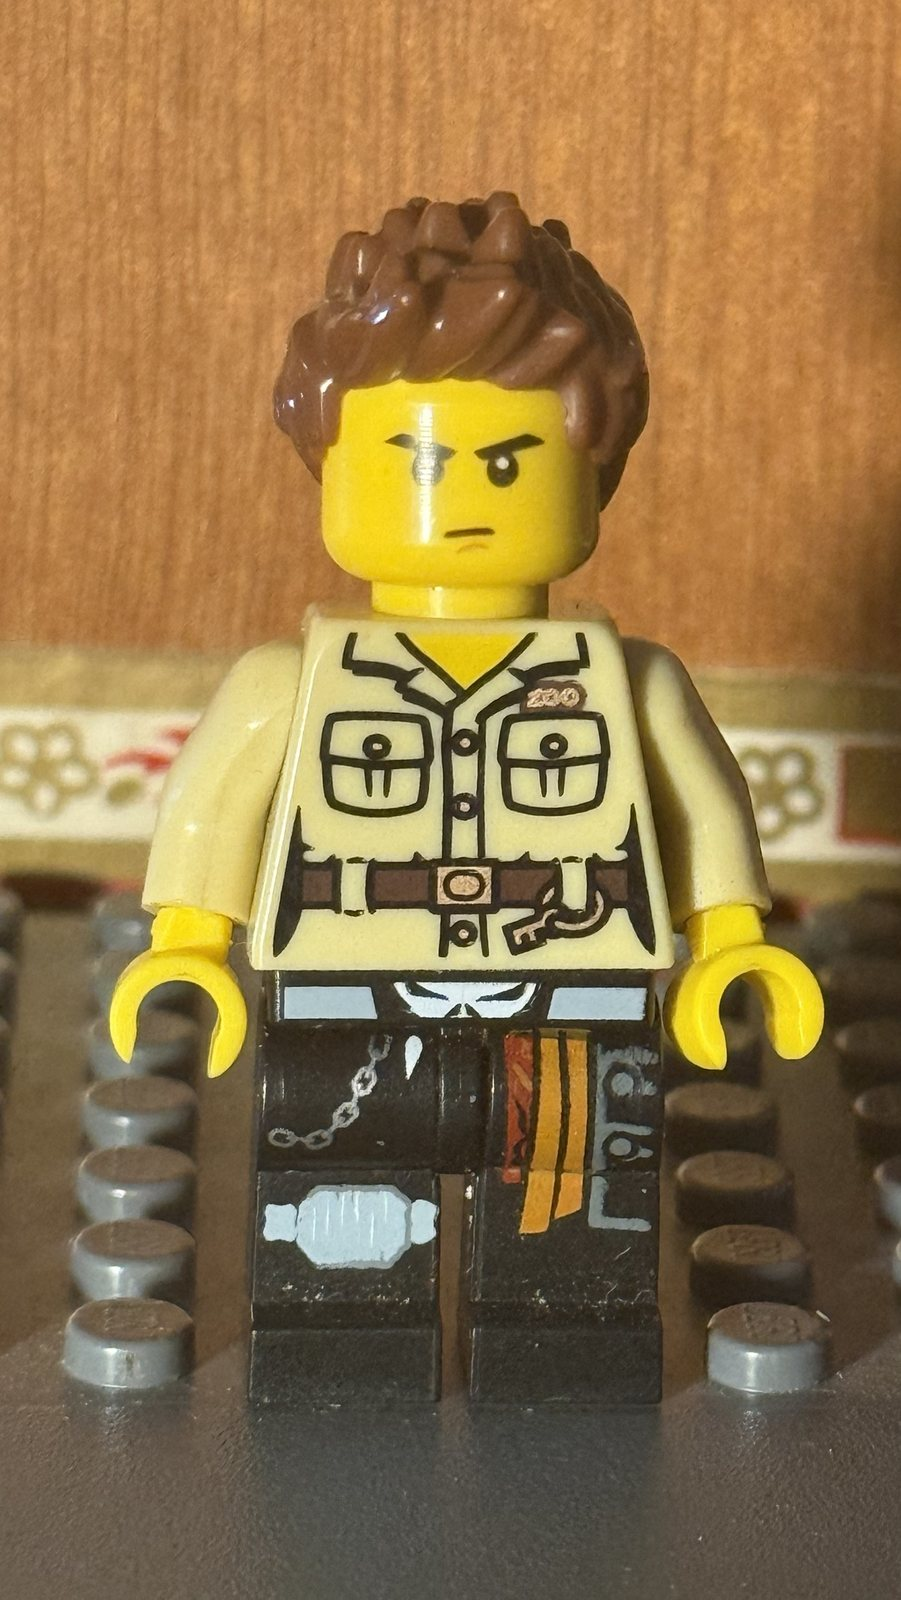
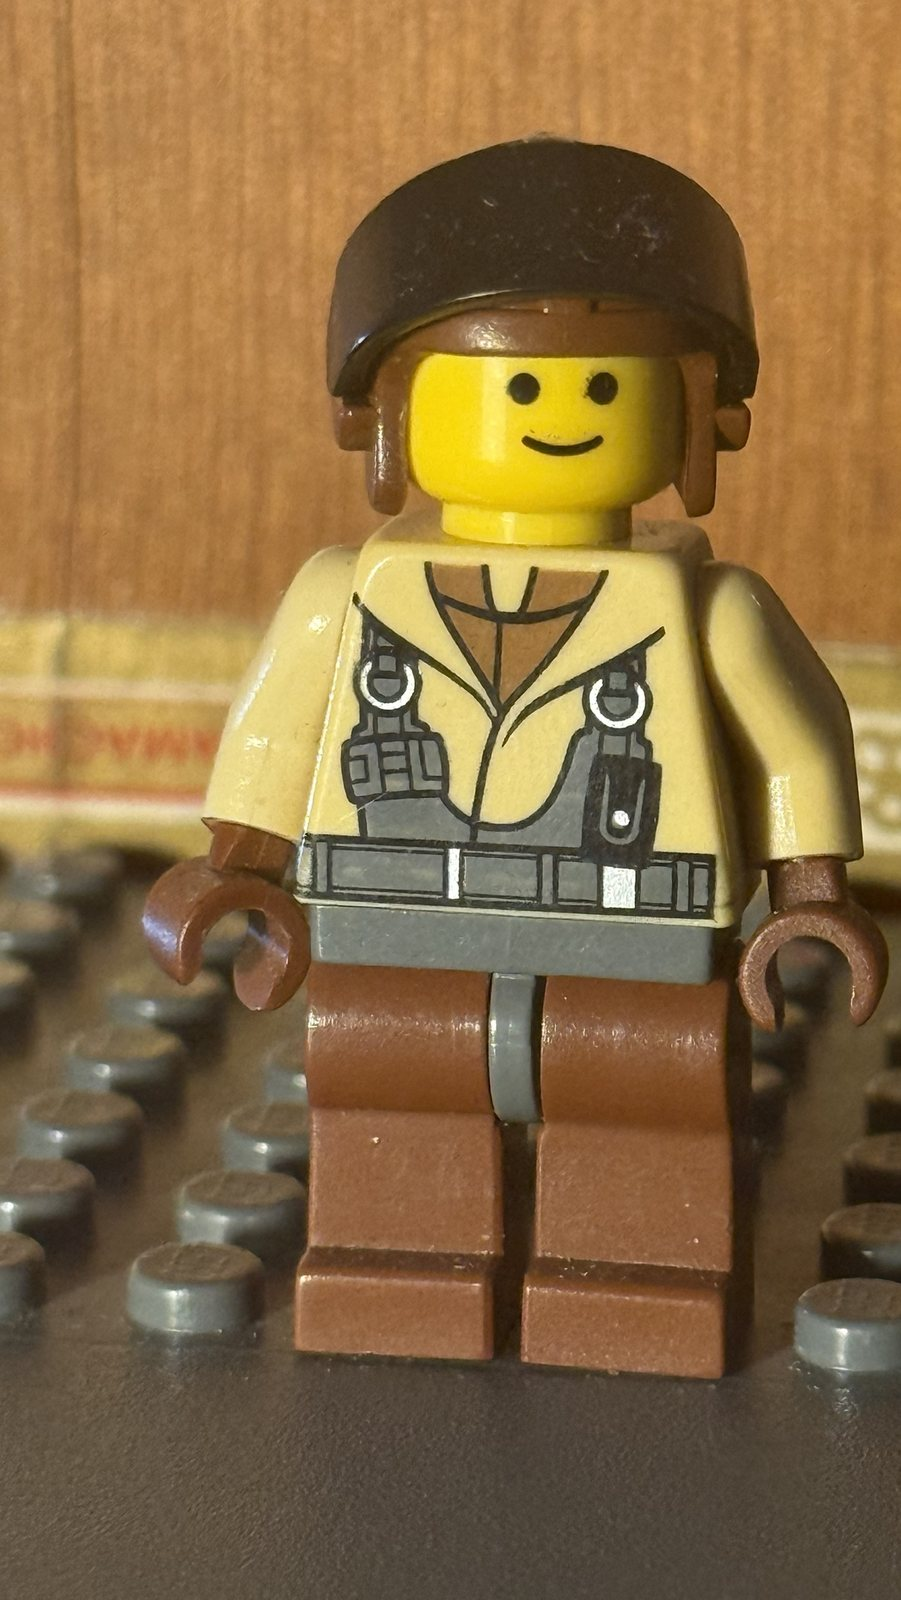
The apprentice is the man in the brown helmet
The swap the Soldier in the Brown Helmet's card offered on the day it was
written: "if I have them the wrong way round, say so and the two cards swap."
They were the wrong way round. The Commissioner's apprentice is the smiling
man in the brown flight helmet - the figure that first stood in for the
Commissioner himself - and not the scarred man with the skull on his leg.

The photographs have traded filenames, so each card's picture matches its
name. The scarred figure keeps no story and takes a descriptive name off the
thing on his leg; the old name could not follow him, since he has no brown
helmet. The arrangement in order.js follows the rename.

It changes how the betrayal reads. The man who shot his commander through the
thigh, stabbed him in the chest and left him over a command board is grinning
in his only photograph, and was promising at the time.

Claude-Session: https://claude.ai/code/session_019oet789NJPU8yepbp9RTbu

diff --git a/data/collection.js b/data/collection.js
@@ -14210,8 +14210,8 @@ window.COLLECTION = [
 
 
   {
-    id: "the-soldier-in-the-brown-helmet",
-    name: "The Soldier in the Brown Helmet",
+    id: "the-soldier-with-the-skull",
+    name: "The Soldier with the Skull",
     variant: "",
     faction: "bad",
     origin: "custom",
@@ -14226,14 +14226,14 @@ window.COLLECTION = [
       "No story given for him yet. He arrived in the villain batch and is " +
       "filed there until you say otherwise.",
     provenance:
-      "Brown padded flight helmet with the ear flaps down over a plain yellow " +
-      "face and an easy smile. Cream jacket printed with a grey harness, two " +
-      "buckled straps and an equipment belt, brown arms into brown hands, " +
-      "brown legs with a grey hip.",
-    tags: ["villain", "soldier", "helmet", "no-story-yet", "needs-a-description"],
-    images: ["images/the-soldier-in-the-brown-helmet-01.jpg"],
+      "Tousled brown hair over a yellow face with a scar through one brow and " +
+      "a hard, level mouth. Cream shirt printed with two buttoned pockets, a " +
+      "small gold badge at the breast, a brown belt and a holster. Black legs " +
+      "carrying a white skull, a length of chain and orange banding.",
+    tags: ["villain", "soldier", "skull", "no-story-yet", "needs-a-description"],
+    images: ["images/the-soldier-with-the-skull-01.jpg"],
     acquired: "",
-    notes: "This is the honest version of a guess. Five figures came in that batch and four descriptions came with them - Wen, the Commissioner\'s apprentice, Long Arm Johnson and the Butcher - and the apprentice one was not numbered. I put it on the third figure, who is scarred, armed, wears a badge on the shirt and a death\'s head on the leg, over this one, who is smiling in a flight helmet. If I have them the wrong way round, say so and the two cards swap. Either way this man has no story yet and should get one.\n\nWorth recording: this is the figure that actually stood in for the Commissioner. The character was swapped onto another figure later, purely so the description had somewhere to live, and this is the one that played the part first."
+    notes: "This is the honest version of a guess. Five figures came in that batch and four descriptions came with them - Wen, the Commissioner\'s apprentice, Long Arm Johnson and the Butcher - and the apprentice one was not numbered. I put it on the third figure, who is scarred, armed, wears a badge on the shirt and a death\'s head on the leg, over this one, who is smiling in a flight helmet. If I have them the wrong way round, say so and the two cards swap. Either way this man has no story yet and should get one.\n\nWorth recording: this is the figure that actually stood in for the Commissioner. The character was swapped onto another figure later, purely so the description had somewhere to live, and this is the one that played the part first.\n\nRenamed and re-photographed out of the same correction. He is not the Commissioner's apprentice after all, and he has no brown helmet either, so the old name did not survive the swap. This one is purely descriptive, off the skull on his leg. He still has no story."
   },
 
 
@@ -14260,14 +14260,14 @@ window.COLLECTION = [
       "out and stole a ship, and he took the information on the mothership " +
       "with him.",
     provenance:
-      "Tousled brown hair over a yellow face with a scar through one brow and " +
-      "a hard, level mouth. Cream shirt printed with two buttoned pockets, a " +
-      "small gold badge at the breast, a brown belt and a holster. Black legs " +
-      "carrying a white skull, a length of chain and orange banding.",
-    tags: ["villain", "traitor", "apprentice", "police", "lego-city", "great-betrayal", "murder", "skull"],
+      "Brown padded flight helmet with the ear flaps down over a plain yellow " +
+      "face and an easy smile. Cream jacket printed with a grey harness, two " +
+      "buckled straps and an equipment belt, brown arms into brown hands, " +
+      "brown legs with a grey hip.",
+    tags: ["villain", "traitor", "apprentice", "police", "lego-city", "great-betrayal", "murder", "helmet"],
     images: ["images/the-commissioners-apprentice-01.jpg"],
     acquired: "",
-    notes: "The Commissioner\'s card has said from the day it was written that he has a protege, a Padawan - and that in this world Padawan just means apprentice, nothing to do with the Force. (It also used to say he had got a little old; you have since corrected his age and that clause is gone.) This is that man. The world note on the day of betrayals says Quinn arranged every turning to land inside the same minute of the same day, and that students turned on their masters and masters on their students. That has been an abstraction until now. This is one of them, with a name for the victim. The Commissioner is left for dead rather than dead: you said left him to die, and nothing on his card says otherwise. Say whether he lived."
+    notes: "The Commissioner\'s card has said from the day it was written that he has a protege, a Padawan - and that in this world Padawan just means apprentice, nothing to do with the Force. (It also used to say he had got a little old; you have since corrected his age and that clause is gone.) This is that man. The world note on the day of betrayals says Quinn arranged every turning to land inside the same minute of the same day, and that students turned on their masters and masters on their students. That has been an abstraction until now. This is one of them, with a name for the victim. The Commissioner is left for dead rather than dead: you said left him to die, and nothing on his card says otherwise. Say whether he lived.\n\nCorrected: the two cards have swapped photographs, which is exactly the swap the other card offered when it was written. The apprentice is the man in the brown flight helmet with the easy smile - the figure that first stood in for the Commissioner himself - and not the scarred man with the skull on his leg. The scarred one goes back to having no story, under a descriptive name. It changes how this card reads: the man who shot his commander through the thigh is smiling in his photograph, and was promising at the time."
   },
 
 

diff --git a/data/order.js b/data/order.js
@@ -922,7 +922,7 @@ window.ORDER = {
       ["the-brawling-alien", "the-conquistador"],
       ["the-alien-medic", "the-conquistador"],
       ["the-infamous-traitor", "the-enemy-soldiers-in-olive"],
-      ["the-soldier-in-the-brown-helmet", "the-enemy-soldiers-in-olive"],
+      ["the-soldier-with-the-skull", "the-enemy-soldiers-in-olive"],
       ["the-armoury-traitor", "the-enemy-soldiers-in-olive"],
       ["the-successful-replica", "the-enemy-soldiers-in-olive"],
       ["the-successful-replica", "the-infamous-traitor"],
@@ -1131,7 +1131,7 @@ window.ORDER = {
       ["the-brawling-alien", "the-conquistador"],
       ["the-alien-medic", "the-conquistador"],
       ["the-infamous-traitor", "the-enemy-soldiers-in-olive"],
-      ["the-soldier-in-the-brown-helmet", "the-enemy-soldiers-in-olive"],
+      ["the-soldier-with-the-skull", "the-enemy-soldiers-in-olive"],
       ["the-armoury-traitor", "the-enemy-soldiers-in-olive"],
       ["the-successful-replica", "the-enemy-soldiers-in-olive"],
       ["the-successful-replica", "the-infamous-traitor"],

diff --git a/index.html b/index.html
@@ -563,11 +563,11 @@
 
 <dialog id="detail"></dialog>
 
-<script src="data/collection.js?v=1789872017"></script>
-<script src="data/scenes.js?v=1789872017"></script>
-<script src="data/lore.js?v=1789872017"></script>
-<script src="data/featured.js?v=1789872017"></script>
-<script src="data/order.js?v=1789872017"></script>
+<script src="data/collection.js?v=1789875364"></script>
+<script src="data/scenes.js?v=1789875364"></script>
+<script src="data/lore.js?v=1789875364"></script>
+<script src="data/featured.js?v=1789875364"></script>
+<script src="data/order.js?v=1789875364"></script>
 <script>
 const FIGS = (window.COLLECTION || []).map((f, i) => ({ ...f, _i: i }));
 const state = { q:"", origin:"all", theme:"all", role:"all", group:"all", sort:"shape" };

diff --git a/art.html b/art.html
@@ -200,7 +200,7 @@
 
 <dialog id="viewer"></dialog>
 
-<script src="data/collection.js?v=1789872017"></script>
+<script src="data/collection.js?v=1789875364"></script>
 <script>
 /* ---- the gallery ---------------------------------------------------------
 

diff --git a/SUMMARY.md b/SUMMARY.md
@@ -6546,15 +6546,15 @@ Then he took Quinn on.
 
 *Tags:* villain, mentor, quinn, dark-arts, crystals, life-extension, disease, explorer, old
 
-### 514. The Soldier in the Brown Helmet
+### 514. The Soldier with the Skull
 
 **Alignment:** bad · **Role:** Soldier · **Figure:** custom
 
 No story given for him yet. He arrived in the villain batch and is filed there until you say otherwise.
 
-*How it was got:* Brown padded flight helmet with the ear flaps down over a plain yellow face and an easy smile. Cream jacket printed with a grey harness, two buckled straps and an equipment belt, brown arms into brown hands, brown legs with a grey hip.
+*How it was got:* Tousled brown hair over a yellow face with a scar through one brow and a hard, level mouth. Cream shirt printed with two buttoned pockets, a small gold badge at the breast, a brown belt and a holster. Black legs carrying a white skull, a length of chain and orange banding.
 
-*Tags:* villain, soldier, helmet, no-story-yet, needs-a-description
+*Tags:* villain, soldier, skull, no-story-yet, needs-a-description
 
 ### 515. The Commissioner's Apprentice
 
@@ -6564,11 +6564,11 @@ The Commissioner's protege, and very promising at first.
 
 When the great betrayal came he was standing beside his commander. He shot him through the thigh, stabbed him in the chest, and left him slumped over a command board to die. He killed two guards on the way out and stole a ship, and he took the information on the mothership with him.
 
-*How it was got:* Tousled brown hair over a yellow face with a scar through one brow and a hard, level mouth. Cream shirt printed with two buttoned pockets, a small gold badge at the breast, a brown belt and a holster. Black legs carrying a white skull, a length of chain and orange banding.
+*How it was got:* Brown padded flight helmet with the ear flaps down over a plain yellow face and an easy smile. Cream jacket printed with a grey harness, two buckled straps and an equipment belt, brown arms into brown hands, brown legs with a grey hip.
 
 *Connections:* Left him for dead The Commissioner
 
-*Tags:* villain, traitor, apprentice, police, lego-city, great-betrayal, murder, skull
+*Tags:* villain, traitor, apprentice, police, lego-city, great-betrayal, murder, helmet
 
 ### 516. Long Arm Johnson
 
